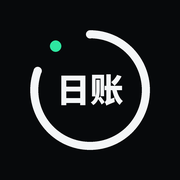
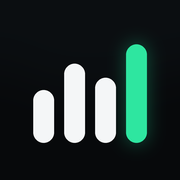
Add files via upload

Changed region(s): [[0.1667, 0.1667, 0.8611, 0.8333], [0.2778, 0.2222, 0.3611, 0.3056]]

diff --git a/app.css b/app.css
@@ -392,18 +392,17 @@ body:not(.owner) .owner-only { display: none !important; }
 /* ---------- 打开时的过渡动画（WHOOP 风格：圆环画一圈 → 名字浮现 → 放大淡出） ---------- */
 #splash { position: fixed; inset: 0; z-index: 100; background: #07090B; display: flex; flex-direction: column; align-items: center; justify-content: center; gap: 26px;
   transition: opacity .5s var(--ease), transform .6s var(--ease); }
-#splash .sp-logo { position: relative; width: 112px; height: 112px; }
-#splash svg { width: 100%; height: 100%; transform: rotate(-90deg); overflow: visible; }
-#splash .sp-arc { fill: none; stroke: #F4F6F7; stroke-width: 6; stroke-linecap: round; stroke-dasharray: 222.7 400; stroke-dashoffset: 222.7;
-  animation: spDraw .95s cubic-bezier(.65, 0, .35, 1) .1s forwards; }
-#splash .sp-dot { fill: #2EE6A0; opacity: 0; transform-box: fill-box; transform-origin: center; transform: scale(0);
-  animation: spDot .5s cubic-bezier(.3, 1.6, .5, 1) .95s forwards; filter: drop-shadow(0 0 5px rgba(46, 230, 160, .8)); }
-#splash .sp-mark { position: absolute; inset: 0; display: flex; align-items: center; justify-content: center; color: #F4F6F7;
-  font-size: 25px; font-weight: 800; letter-spacing: 1px; opacity: 0; transform: scale(.9); animation: spName .55s var(--ease) .55s forwards; }
+#splash .sp-bars { display: flex; align-items: flex-end; gap: 10px; height: 92px; }
+#splash .sp-bars i { display: block; width: 20px; height: var(--h); border-radius: 10px; background: #F4F6F7; transform: scaleY(0); transform-origin: bottom;
+  animation: spBar .55s cubic-bezier(.3, 1.4, .5, 1) forwards; }
+#splash .sp-bars i:nth-child(1) { animation-delay: .10s; }
+#splash .sp-bars i:nth-child(2) { animation-delay: .22s; }
+#splash .sp-bars i:nth-child(3) { animation-delay: .34s; }
+#splash .sp-bars i.g { animation: spBar .55s cubic-bezier(.3, 1.4, .5, 1) .46s forwards, spLit .5s ease-out .95s forwards; }
 #splash .sp-name { color: #F4F6F7; font-size: 14px; font-weight: 600; letter-spacing: 3px; padding-left: 3px; opacity: 0; transform: translateY(8px);
   animation: spName .6s var(--ease) .65s forwards; }
 #splash.out { opacity: 0; transform: scale(1.12); pointer-events: none; }
-@keyframes spDraw { to { stroke-dashoffset: 0; } }
-@keyframes spDot { to { opacity: 1; transform: scale(1); } }
+@keyframes spBar { to { transform: scaleY(1); } }
+@keyframes spLit { to { background: #2EE6A0; box-shadow: 0 0 18px rgba(46, 230, 160, .65); } }
 @keyframes spName { to { opacity: .9; transform: none; } }
 @media (prefers-reduced-motion: reduce) { #splash { display: none; } }

diff --git a/index.html b/index.html
@@ -17,10 +17,7 @@
 <body>
 <!-- 打开时的过渡动画 -->
 <div id="splash" aria-hidden="true">
-  <div class="sp-logo">
-    <svg viewBox="0 0 120 120"><circle class="sp-arc" cx="60" cy="60" r="44"/><circle class="sp-dot" cx="94.7" cy="32.9" r="4.6"/></svg>
-    <b class="sp-mark">日账</b>
-  </div>
+  <div class="sp-bars"><i style="--h:54%"></i><i style="--h:80%"></i><i style="--h:66%"></i><i class="g" style="--h:100%"></i></div>
   <div class="sp-name">店铺日账</div>
 </div>
 

diff --git a/sw.js b/sw.js
@@ -1,5 +1,5 @@
 // 离线缓存：有网时总是取最新版本，没网时用手机上的缓存，保证离线也能打开
-const CACHE = 'rizhang-v26';
+const CACHE = 'rizhang-v27';
 const SHELL = [
   './', 'index.html', 'app.css', 'config.js', 'manifest.webmanifest',
   'main.js', 'db.js', 'stats.js', 'chart.js', 'firebase.js', 'holidays.js', 'xlsx.js',
